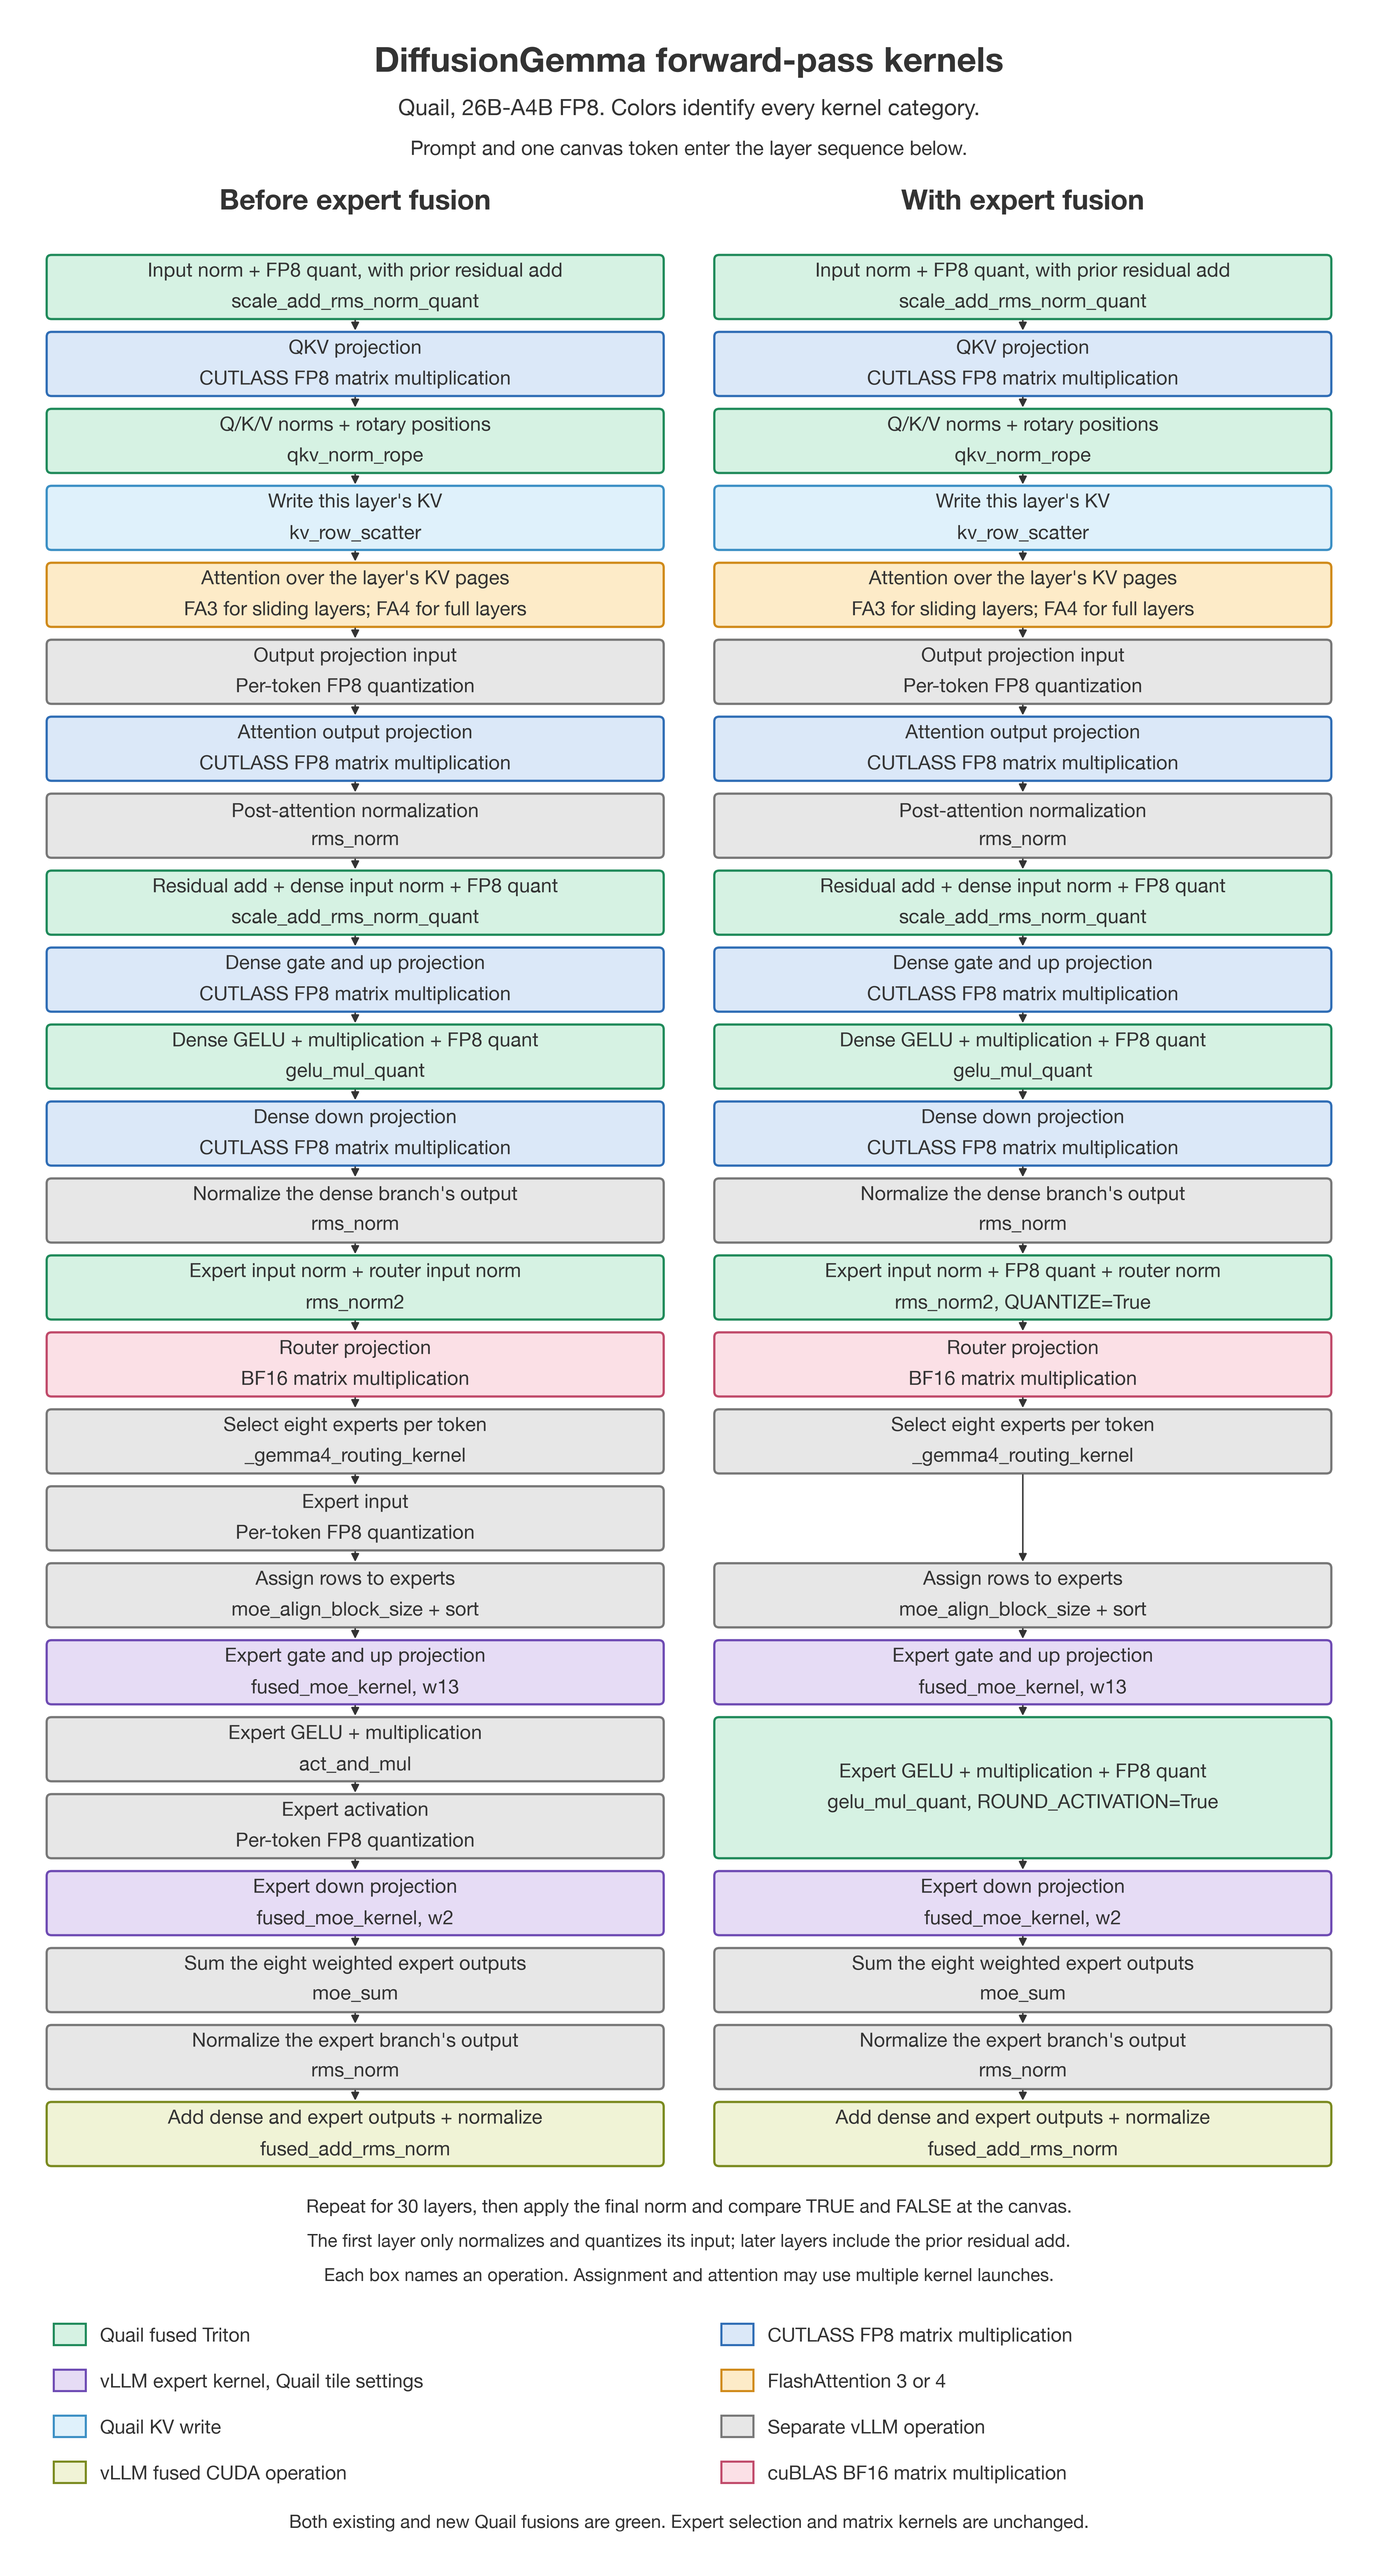
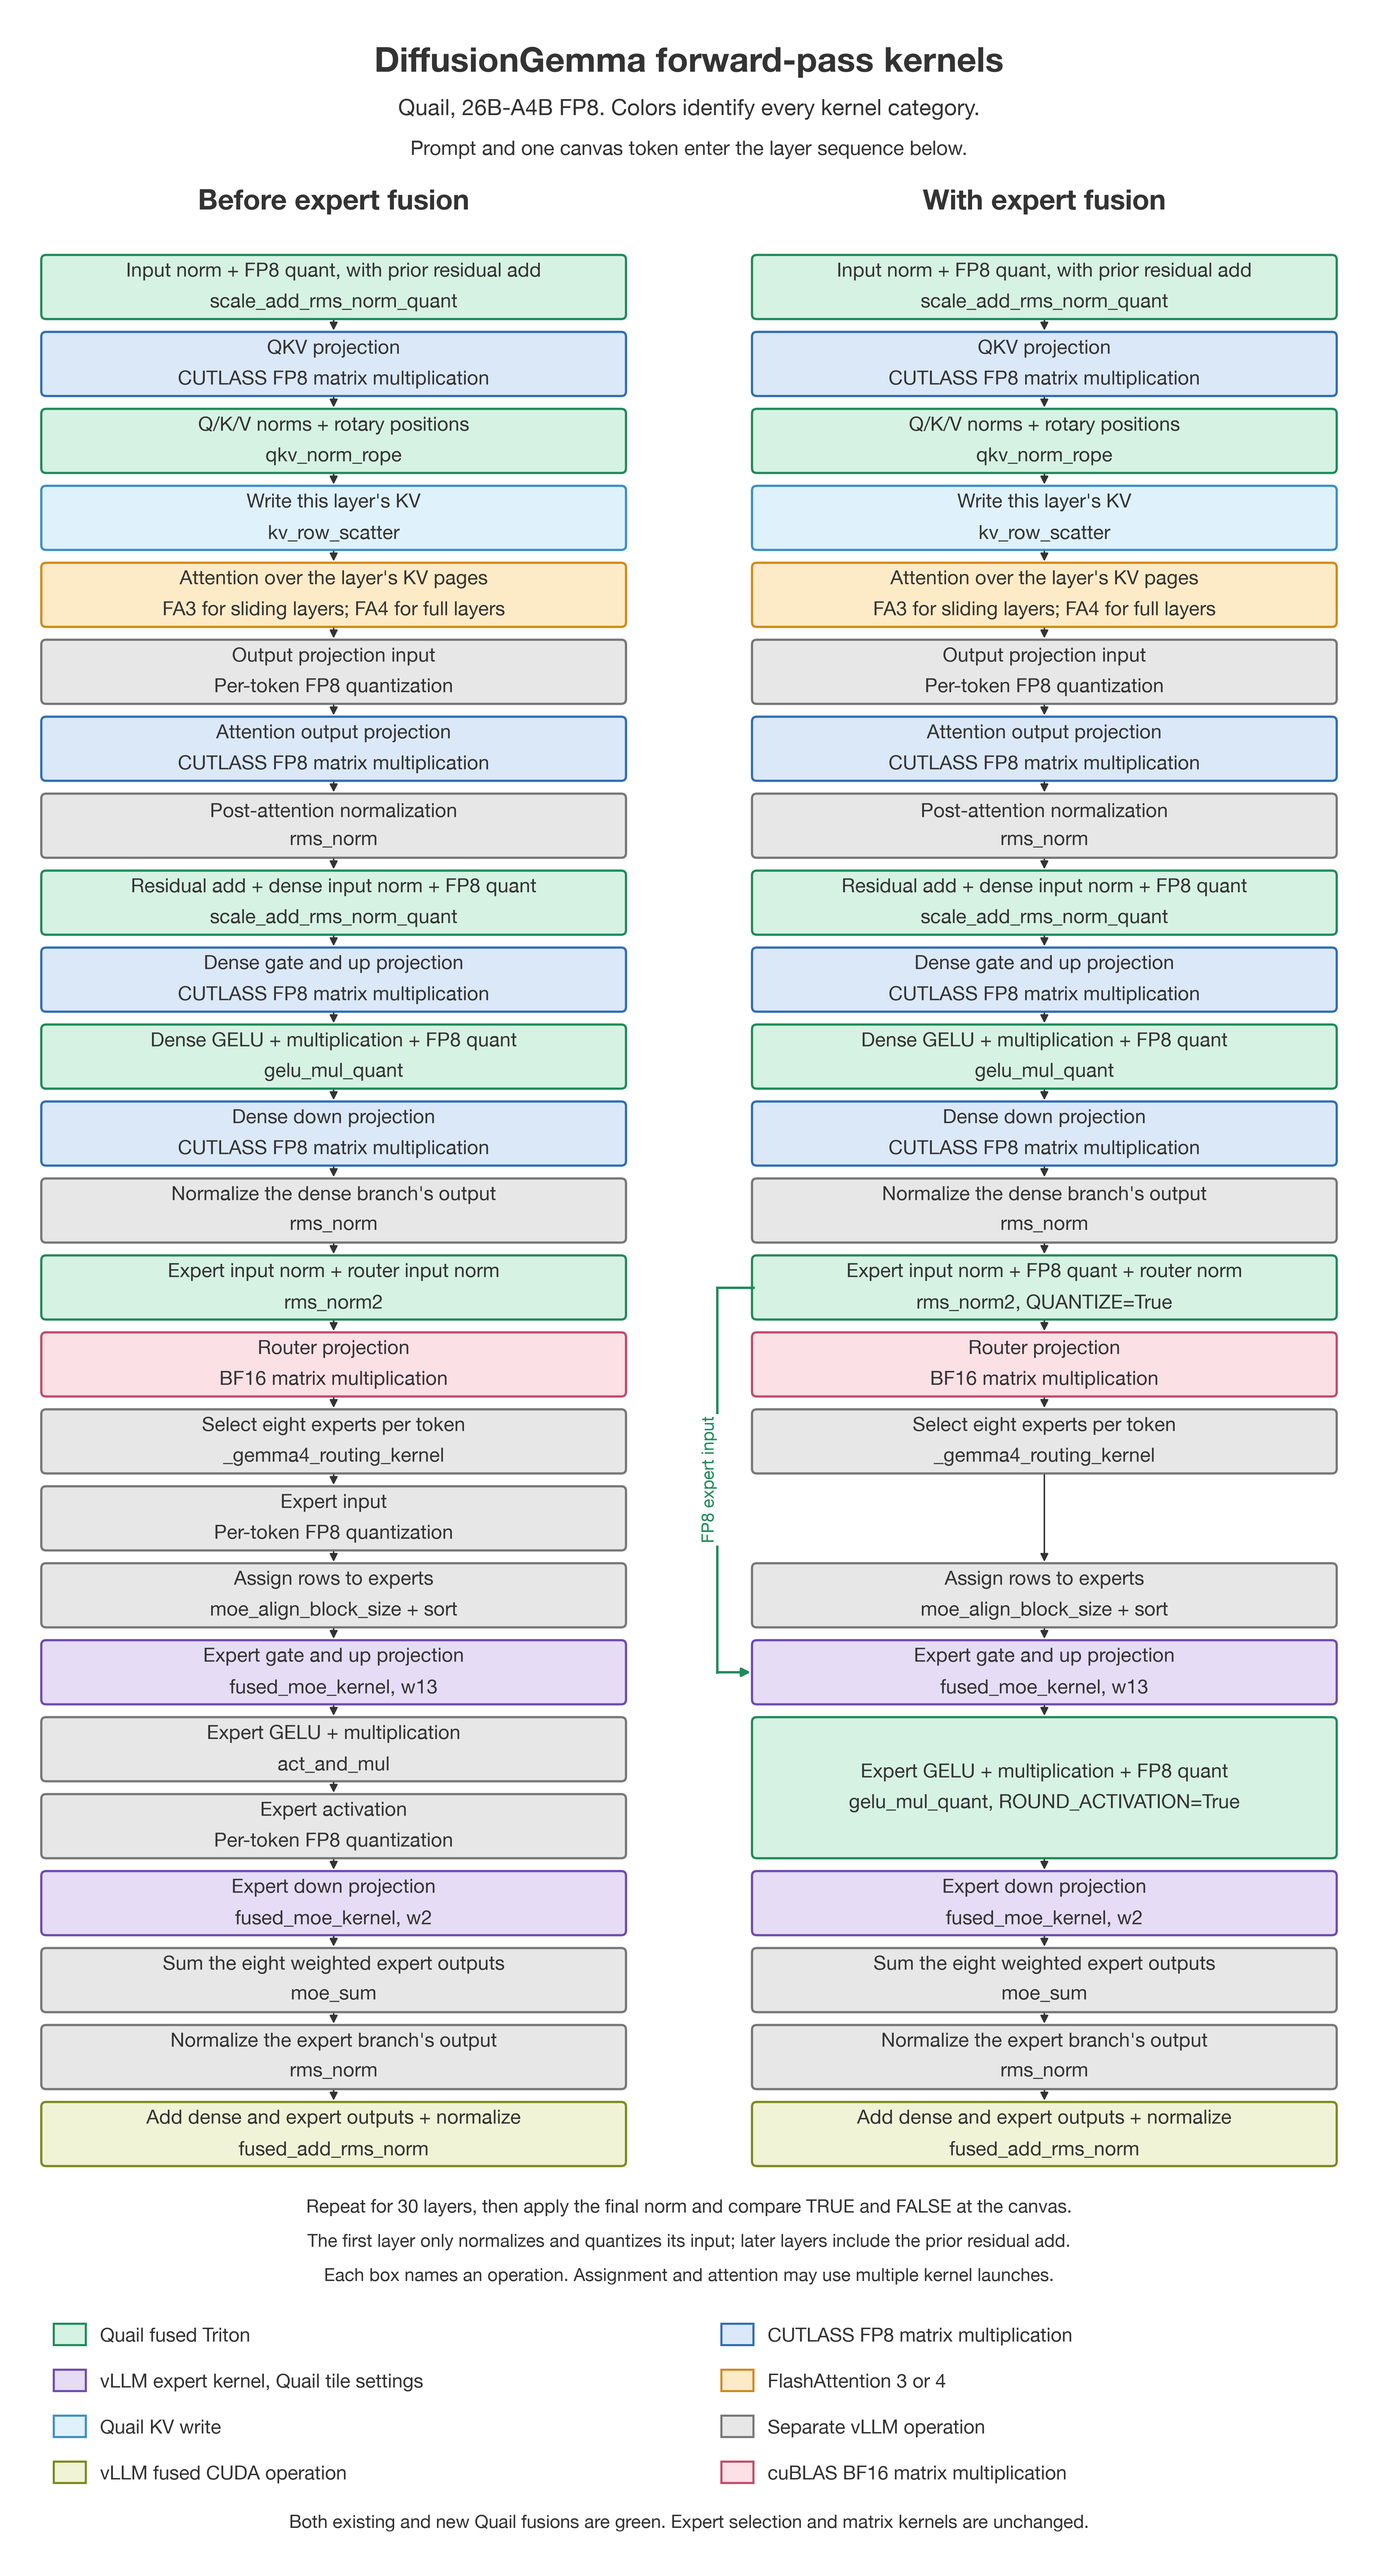
Show fused expert input bypassing the router

diff --git a/reports/make_expert_fusion_diagram.py b/reports/make_expert_fusion_diagram.py
@@ -68,7 +68,8 @@ RIGHT.update({
     19: ("Expert GELU + multiplication + FP8 quant\ngelu_mul_quant, ROUND_ACTIVATION=True", "quail"),
 })
 
-WIDTH, STEP, HEIGHT = 5.7, 0.72, 0.57
+WIDTH, STEP, HEIGHT = 5.4, 0.72, 0.57
+X_POSITIONS = (0.2, 6.8)
 TOP = 20.4
 fig, ax = plt.subplots(figsize=(12.8, 24.0))
 fig.subplots_adjust(left=0.02, right=0.98, top=0.99, bottom=0.02)
@@ -83,7 +84,7 @@ ax.text(6.2, 21.42, "Prompt and one canvas token enter the layer sequence below.
 
 for col, (heading, rows) in enumerate((
         ("Before expert fusion", LEFT), ("With expert fusion", RIGHT))):
-    x = 0.25 + col * 6.2
+    x = X_POSITIONS[col]
     center = x + WIDTH / 2
     ax.text(center, 20.94, heading, ha="center", va="center",
             fontsize=19, weight="bold")
@@ -104,6 +105,24 @@ for col, (heading, rows) in enumerate((
         ax.text(center, top - height / 2, label, ha="center", va="center",
                 fontsize=13.2, linespacing=1.35, color=DARK)
         previous_bottom = top - height
+
+# The fused norm has two outputs. The BF16 router input follows the main
+# path; the FP8 expert input bypasses the router and enters the first expert
+# matrix multiplication after the router assigns rows to experts.
+right_x = X_POSITIONS[1]
+bypass_x = right_x - 0.34
+source_y = TOP - 13 * STEP - HEIGHT / 2
+target_y = TOP - 18 * STEP - HEIGHT / 2
+ax.plot([right_x, bypass_x], [source_y, source_y], color="#1f8a5a", lw=1.6)
+ax.plot([bypass_x, bypass_x], [source_y, target_y], color="#1f8a5a", lw=1.6)
+ax.add_patch(FancyArrowPatch(
+    (bypass_x, target_y), (right_x, target_y),
+    arrowstyle="-|>", mutation_scale=12, color="#1f8a5a", linewidth=1.6,
+    shrinkA=0, shrinkB=2))
+ax.text(bypass_x - 0.09, (source_y + target_y) / 2,
+        "FP8 expert input", rotation=90, ha="center", va="center",
+        fontsize=11.5, color="#1f8a5a",
+        bbox={"facecolor": "white", "edgecolor": "none", "pad": 1.5})
 
 ax.text(6.2, 2.10,
         "Repeat for 30 layers, then apply the final norm and compare TRUE and FALSE at the canvas.",
